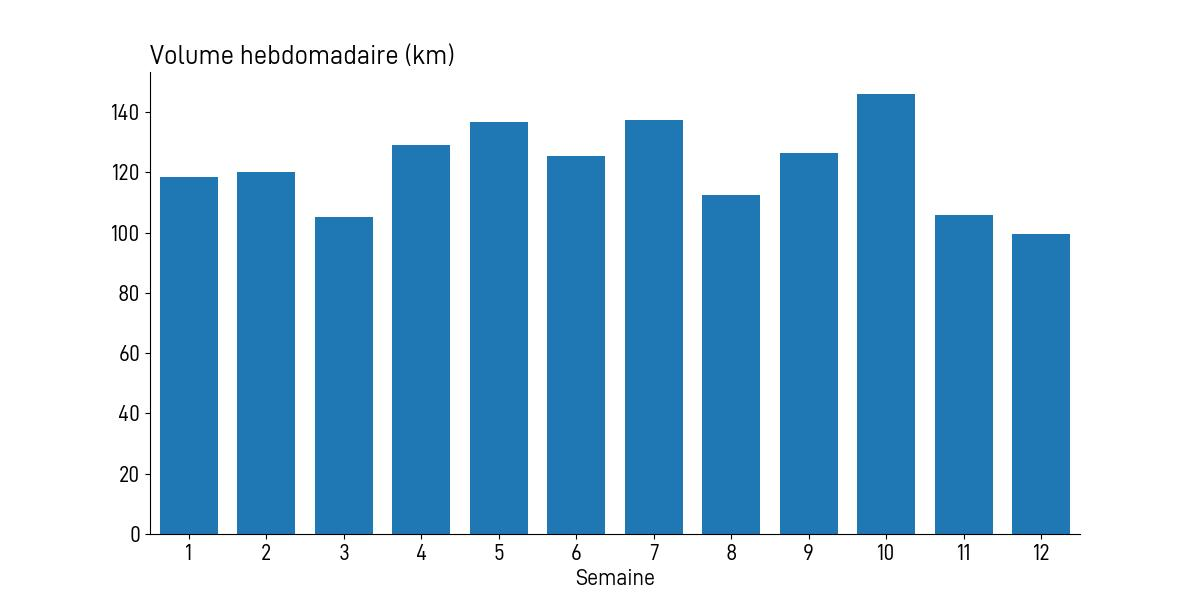
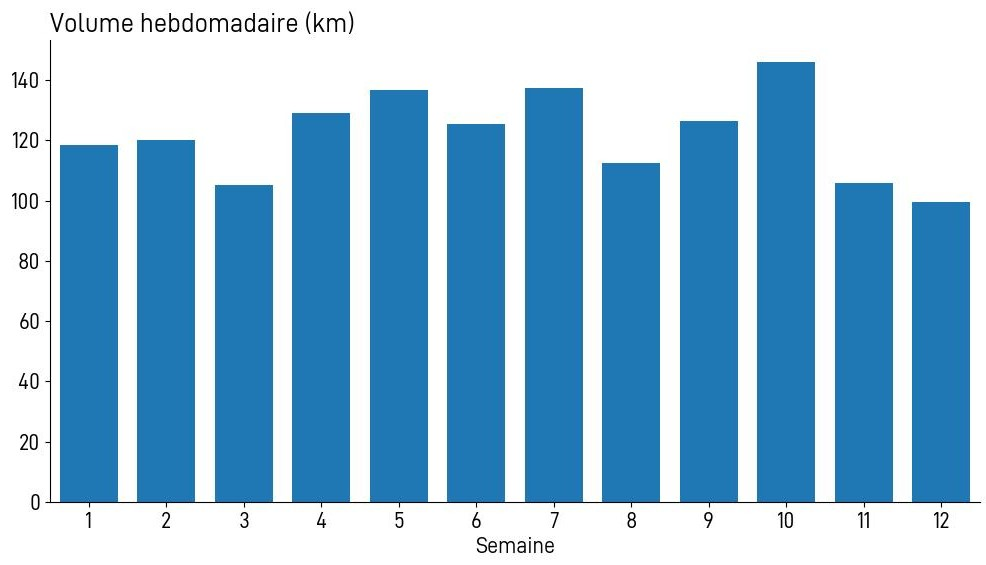
add figs for marathon prep

diff --git a/content/blog/20261007_Anvers/index.md b/content/blog/20261007_Anvers/index.md
@@ -14,6 +14,8 @@ Ce sont des questions que je me pose encore, et auxquelles j'espère pouvoir tro
 1. Pourquoi ça peut foirer?
 2. Pourquoi ça peut (quand même) passer?
 3. Quel temps viser?
+   
+{{< figure src="./images/OpenSeaLab_2319.JPG" alt="Lors d'une précédente visite à Anvers." caption="Lors d'une précédente visite à Anvers." class="blog-figure" >}}
 
 ## Pourquoi ça peut foirer?
 
@@ -24,7 +26,8 @@ sur un 10K. La préparation avec donc été axée là-dessus: beaucoup d'allure 
 
 Dans la prépa il y a un composante physique, tout ce qui est amélioration de la capacité à réaliser un tel effort, et puis aussi uen composante mentale: on a fait la prépa, on se sent légitime pour la course, il y a comme quelque chose qui justifie le fait qu'on soit en confiance. Cette composante je ne l'ai pas: sans me prendre pour un imposteur, je suis convaincu que je n'ai pas fait mes devoirs. 
 
-![](./images/OpenSeaLab_2319.JPG)
+{{< figure src="./images/AntwerpMarathon_km_histogram.jpg" alt="Nombre de sorties en fonction du kilométrage." caption="Nombre de sorties en fonction du kilométrage. " class="blog-figure" >}}
+
 
 ## Pourquoi ça peut passer (sans casser)?
 
@@ -34,7 +37,7 @@ La dernière semaine avant l'affutage s'est terminé à 146 km, probablement mon
 2. __La vitesse:__ bien qu'on ait quasi pas travaillé à l'allure spéficique marathon, la combinaison des séances au seuil et des sorties longues pourrait quand même aider... (je ne sais pas si je crois à ce que j'écris, mais soit).
 3. __L'expérience:__ par là je veux dire, ma participation plus tôt dans l'année au Marathon de Charleroi. Lors de cette course j'avais vraiment eu beaucoup moins de stress que dans le passé, mais pas encore l'impression de pouvoir normaliser ce type de course. J'espère que ça viendra un jour, comme c'est maintenant le cas pour un semi (à une époque ça me faisait presque peur).
 
-![](./images/OpenSeaLab_2464.JPG)
+{{< figure src="./images/AntwerpMarathon_weekly_volume.jpg" alt="Volume hebdomadaire lors des 12 semaines avant le marathon." caption="Volume hebdomadaire lors des 12 semaines avant le marathon (la dernière semaine étant celle du marathon)." class="blog-figure" >}}
 
 ## Quel temps viser?
 
@@ -55,9 +58,7 @@ __Limitations:__ le 15K ça fait déjà longtemps (avril), donc peut-être pas l
 
 Début septembre j'avais fait un [test "lactate"]( {{< relref "blog/20260907_TestLactate" >}} ), qui a permis d'estimer mes seuils lactiques:
 
-| ![](./images/lactate.png) |
-|:--:|
-| _Résultats du test de lactate, réalisé par [TwinPeakLab](https://www.twinpeaklab.be/)._|
+{{< figure src="./images/lactate.png" alt="Résultats du test de lactate, réalisé par [TwinPeakLab](https://www.twinpeaklab.be/)." caption="Résultats du test de lactate, réalisé par [TwinPeakLab](https://www.twinpeaklab.be/)." class="blog-figure" >}}
 
 - 14.1 km/h pour le premier seuil lactique (`LT1`),
 - 16.2 km/h pour le deuxième seuil (`LT2`).
@@ -83,6 +84,6 @@ Ce sera sympa de ne pas faire mentir ces chiffres, mais restons réalistes. Il f
 
 Verdict le 18 octobre, le récit sera [ici]( {{< relref "races/20261018_MarathonAnvers" >}} ).
                                                               
-
+{{< figure src="./images/OpenSeaLab_2464.JPG" alt="Lors d'une précédente visite à Anvers." caption="Lors d'une précédente visite à Anvers." class="blog-figure" >}}
                                                               
                                                               

diff --git a/content/races/20130511_Transvulcania01/index.md b/content/races/20130511_Transvulcania01/index.md
@@ -54,10 +54,9 @@ Après une superbe descente depuis las Deseadas, nous voici au 3° ravito, égal
 
 ## 5. La Hilera
 
-Pour moi une des parties les plus difficiles à gérer: 7-8 km de plat-faux plat sur une piste forestière, avec vue sur la ligne d'arrivée (pour déprimer ou pour se donner du courage, en fonction des sensations), avant une monstrueuse montée. Cette fois-ci ça a été beaucoup mieux qu'il y a 3 ans, j'ai pu continuer à courir. A ce moment-là je me dis: 
+Pour moi une des parties les plus difficiles à gérer: 7-8 km de plat-faux plat sur une piste forestière, avec vue sur la ligne d'arrivée (pour déprimer ou pour se donner du courage, en fonction des sensations), avant une monstrueuse montée. Cette fois-ci ça a été beaucoup mieux qu'il y a 3 ans, j'ai pu continuer à courir. À ce moment-là je me dis: 
 
 > L'entrainement a peut-être payé ;)
-
 
 {{< figure src="./images/tvc05.jpg" alt="During the climbing of el Reventón, with view on la Hilera." caption="During the climbing of el Reventón, with view on la Hilera." class="blog-figure" >}}
 
